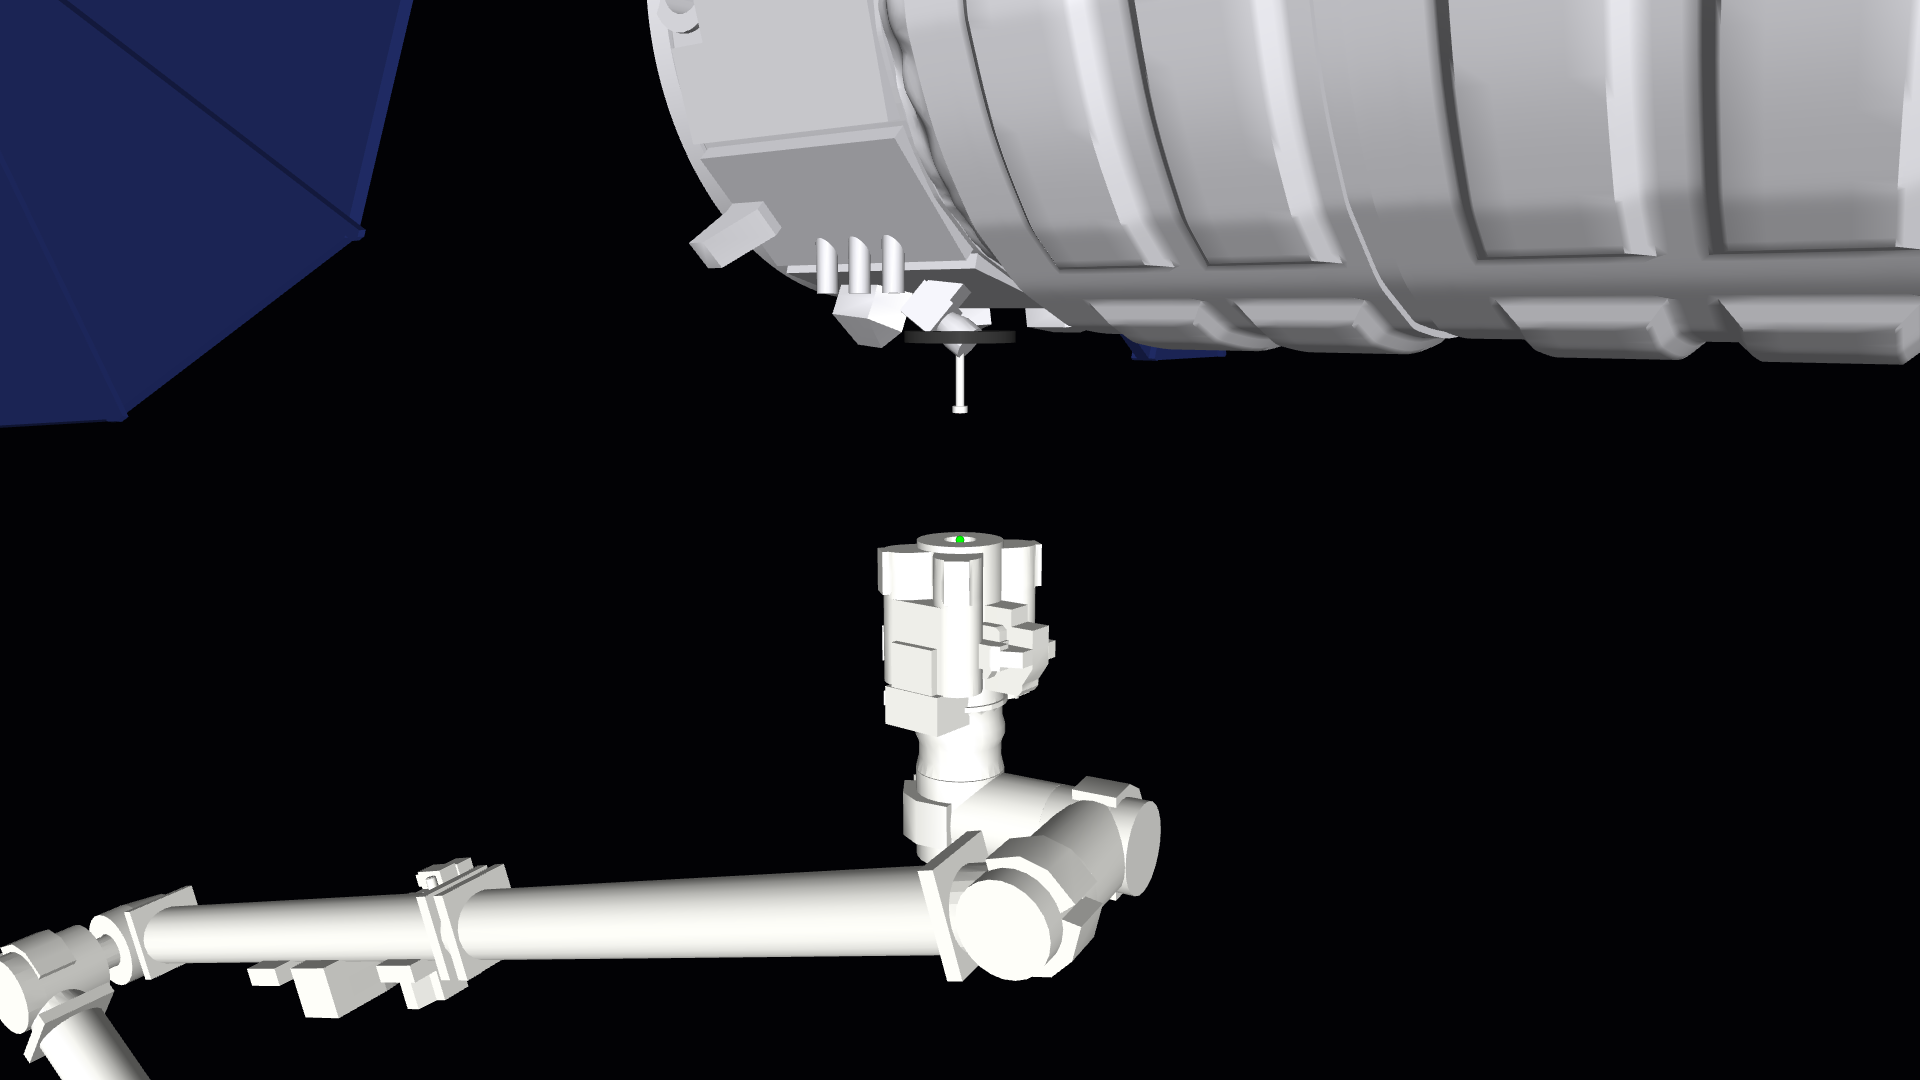
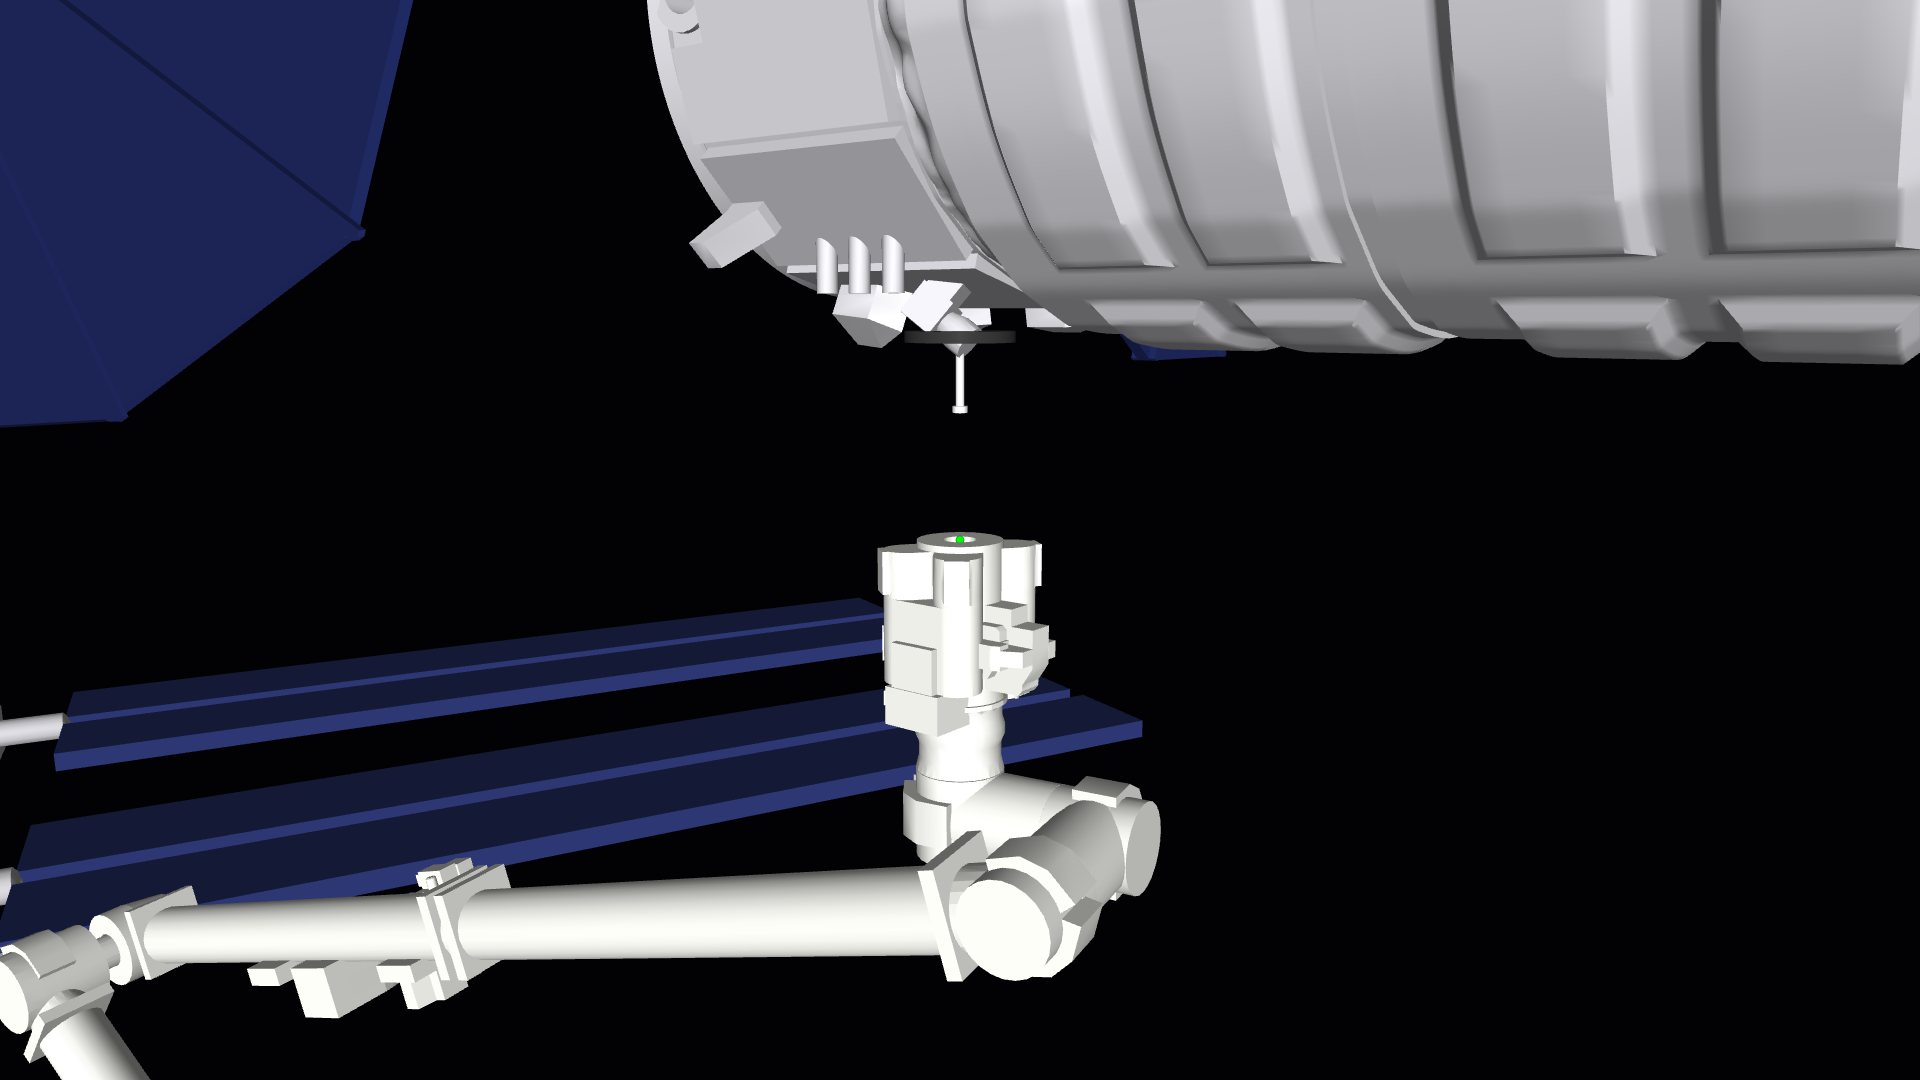
Realism pass 1: add the station
Replace the grey box with NASA's International Space Station model,
fetched by the asset script and scaled to the real truss length. Mount
the arm on the Earth-facing side of the forward node, found from
cross-sections of the model, so the vehicle is captured below the
station as Cygnus is.

The station is scenery only: it adds no mass and nothing collides
with it.

Changed region(s): [[0.0, 0.55, 0.5938, 0.8861]]

diff --git a/scripts/fetch_assets.py b/scripts/fetch_assets.py
@@ -8,6 +8,9 @@ Sources and terms:
   Canadian Space Agency, 1:100 printable models of Canadarm2 and Cygnus.
     Credit: Canadian Space Agency. Non-commercial reproduction permitted with
     acknowledgement; no endorsement implied. https://www.asc-csa.gc.ca/eng/terms.asp
+  NASA 3D Resources, International Space Station (B).
+    Credit: NASA. Published as free and without copyright; NASA's media usage
+    guidelines apply. https://github.com/nasa/NASA-3D-Resources
 
 Needs the `assets` extra:  pip install -e ".[assets]"
 """
@@ -34,6 +37,11 @@ FILES = [
     "Cygnus_Enhanced_1-100_v01.STL",
     "Cygnus_Enhanced_1-100_SolarArray_v01.STL",
 ]
+NASA_ISS = (
+    "https://raw.githubusercontent.com/nasa/NASA-3D-Resources/master/3D%20Models/"
+    "International%20Space%20Station%20(ISS)%20(B)/International%20Space%20Station%20(ISS)%20(B).glb"
+)
+ISS_FILE = "ISS_B.glb"
 PRINT_SCALE = 0.1  # files are in millimetres at 1:100, so 1 mm is 0.1 m at full size
 
 
@@ -45,6 +53,9 @@ def download() -> None:
             continue
         print("downloading", name)
         urllib.request.urlretrieve(CSA + urllib.parse.quote(name), path)
+    if not (RAW / ISS_FILE).exists():
+        print("downloading", ISS_FILE)
+        urllib.request.urlretrieve(NASA_ISS, RAW / ISS_FILE)
 
 
 def load(name: str) -> trimesh.Trimesh:
@@ -122,6 +133,27 @@ def cygnus() -> None:
     save("cygnus_arrays", [array, other])
 
 
+def station() -> None:
+    """The station, scaled to full size and placed so the arm's base sits on it."""
+    scene = trimesh.load(RAW / ISS_FILE, force="scene")
+    to_world = np.eye(4)
+    to_world[:3, :3] = g.STATION_SCALE * g.STATION_MESH_TO_WORLD
+    to_world[:3, 3] = -to_world[:3, :3] @ g.STATION_ARM_MOUNT
+    body, arrays = [], []
+    for node in scene.graph.nodes_geometry:
+        transform, name = scene.graph[node]
+        mesh = scene.geometry[name].copy()
+        mesh.apply_transform(transform)
+        if mesh.bounds[1][1] > 30:
+            continue  # stray discs far from the station in the source file
+        thin_and_wide = mesh.extents.min() < 0.3 and np.sort(mesh.extents)[1] > 20
+        mesh.apply_transform(to_world)
+        mesh.visual = trimesh.visual.ColorVisuals()
+        (arrays if thin_and_wide else body).append(mesh)
+    save("station_body", body)
+    save("station_arrays", arrays)
+
+
 def main() -> None:
     download()
     OUT.mkdir(parents=True, exist_ok=True)
@@ -129,6 +161,7 @@ def main() -> None:
     boom_a()
     boom_b()
     cygnus()
+    station()
 
 
 if __name__ == "__main__":

diff --git a/capture/scene.py b/capture/scene.py
@@ -64,7 +64,7 @@ def _add_cavity_wall(spec: mujoco.MjSpec) -> None:
 
 
 def meshes_available() -> bool:
-    names = list(geometry.ARM_MESHES.values()) + list(geometry.VEHICLE_MESHES)
+    names = [*geometry.ARM_MESHES.values(), *geometry.VEHICLE_MESHES, *geometry.STATION_MESHES]
     return all((MESH_DIR / f"{n}.stl").exists() for n in names)
 
 
@@ -76,8 +76,8 @@ def _use_meshes(spec: mujoco.MjSpec) -> None:
     """
     visual = dict(type=mujoco.mjtGeom.mjGEOM_MESH, contype=0, conaffinity=0, density=0)
     for geom in spec.geoms:
-        # arm stand-ins, the end-effector shell, and the vehicle hull
-        if geom.name.startswith(("v_", "lee_", "hull_")):
+        # arm stand-ins, the end-effector shell, the vehicle hull, and the station box
+        if geom.name.startswith(("v_", "lee_", "hull_", "truss")):
             geom.rgba[3] = 0.0
     for body, mesh in geometry.ARM_MESHES.items():
         spec.add_mesh(name=mesh, file=str(MESH_DIR / f"{mesh}.stl"))
@@ -85,6 +85,9 @@ def _use_meshes(spec: mujoco.MjSpec) -> None:
     for mesh, rgba in geometry.VEHICLE_MESHES.items():
         spec.add_mesh(name=mesh, file=str(MESH_DIR / f"{mesh}.stl"))
         spec.body("vehicle").add_geom(name=f"mesh_{mesh}", meshname=mesh, rgba=list(rgba), **visual)
+    for mesh, rgba in geometry.STATION_MESHES.items():
+        spec.add_mesh(name=mesh, file=str(MESH_DIR / f"{mesh}.stl"))
+        spec.worldbody.add_geom(name=f"mesh_{mesh}", meshname=mesh, rgba=list(rgba), **visual)
 
 
 def build_model(meshes: bool | None = None) -> mujoco.MjModel:

diff --git a/capture/geometry.py b/capture/geometry.py
@@ -16,6 +16,18 @@ BOOM_B_OFFSET = np.array([0.03, -1.87, 0.48])
 # hull axis along z, grapple fixture pointing along +x.
 CYGNUS_MESH_TO_BODY = np.array([[-1.0, 0.0, 0.0], [0.0, 0.0, 1.0], [0.0, 1.0, 0.0]])
 
+# NASA's station model is in arbitrary units. Its truss spans 45.6 units against a real
+# 108.5 m, and its module radii give a similar ratio.
+STATION_SCALE = 2.35
+# Model axes: modules along y (forward is +y), truss along z, Earth-facing side is +x.
+# World axes here: z points away from the arm's mounting surface, toward the vehicle.
+STATION_MESH_TO_WORLD = np.array([[0.0, 1.0, 0.0], [0.0, 0.0, 1.0], [1.0, 0.0, 0.0]])
+# Point on the model that the arm's base sits on: the Earth-facing side of the forward
+# node (Harmony), found from cross-sections of the model. The real arm mounts on
+# dedicated fixtures; which one, and exactly where, is not sourced, so this is approximate.
+STATION_ARM_MOUNT = np.array([0.76, 14.75, 0.0])
+STATION_MESHES = {"station_body": (0.78, 0.78, 0.8, 1.0), "station_arrays": (0.16, 0.2, 0.42, 1.0)}
+
 # Meshes written by scripts/fetch_assets.py, by the body they are attached to.
 ARM_MESHES = {
     "arm_root": "lee_a",

diff --git a/scripts/plan_diagram.py b/scripts/plan_diagram.py
@@ -23,7 +23,7 @@ EXPERIMENTS = [
 ]
 
 # One line on what is happening right now, shown under the title.
-NOW = "Now: realism pass before stage 4.  Real 3D models: done.  Sourced parameters: next.  10 m start: planned."
+NOW = "Now: realism pass before stage 4.  Real 3D models and station: done.  Sourced parameters: next.  10 m start: planned."
 
 W, H = 1600, 860
 BG, CARD, EDGE = "#0f1b2d", "#1b2a40", "#2b3d57"

diff --git a/scripts/render_scene.py b/scripts/render_scene.py
@@ -15,7 +15,8 @@ OUT = ROOT / "docs" / "media"
 
 VIEWS = {
     # name: (lookat, distance, azimuth, elevation)
-    "scene_wide": ((0.5, 1.0, 6.5), 30.0, 35.0, -12.0),
+    "scene_station": ((-10.0, 0.0, 2.0), 70.0, 50.0, -20.0),
+    "scene_wide": ((0.0, 2.0, 4.0), 26.0, 150.0, 5.0),
     "scene_closeup": (None, 6.0, 60.0, -10.0),
 }
 

diff --git a/docs/PLAN.md b/docs/PLAN.md
@@ -24,7 +24,7 @@ The project is simulation only. It is a reasoned study of a real operation, not 
 | 1 | Zero-g scene | Done (2026-10-10) | Arm and vehicle load, momentum is conserved, arm tracks commands |
 | 2 | Snare mechanism | Done (2026-10-10) | A closing mechanism holds the pin against a pull-out force |
 | 3 | Approach and capture | Done (2026-10-10) | A controller completes a capture from a nominal start |
-| R1 | Realism: real 3D models | Done (2026-10-10) | Arm and vehicle use the Canadian Space Agency models; arm joints placed from them |
+| R1 | Realism: real 3D models | Done (2026-10-10) | Arm, vehicle, and station use Canadian Space Agency and NASA models; arm joints placed from them |
 | R2 | Realism: sourced parameters | Next | Snare and capture numbers taken from the published papers where they give them |
 | R3 | Realism: 10 m capture point | Planned | The attempt starts with the vehicle at the real capture distance |
 | 4 | Trial harness | Planned | One command runs N trials and reports success rate and failure types |
@@ -54,6 +54,7 @@ The project is simulation only. It is a reasoned study of a real operation, not 
 | 2026-10-10 | Fetch the 3D models with a script; do not store them in the repository | The Canadian Space Agency permits non-commercial reproduction with credit; fetching from the source avoids redistributing the files |
 | 2026-10-10 | Rebuild the arm's joints from the CSA model's separate parts | The model shows Canadarm2's offset joints, which the first straight-line arm did not have |
 | 2026-10-10 | Meshes are appearance only; collisions keep simple shapes | Keeps contact fast and predictable, and the simulation runs without the downloaded files |
+| 2026-10-10 | Mount the arm on the Earth-facing side of the forward node (Harmony) | Cygnus is captured about 10 m below the station; the exact fixture used is not sourced, so this is an approximation |
 | 2026-10-10 | Move the grapple pin to the service module | The Cygnus model has a small fixture there |
 | 2026-10-10 | Treat the station as fixed and the arm as rigid | The station is about 60 times heavier than the vehicle; arm flexibility is left out to keep the first version simple |
 
@@ -72,7 +73,7 @@ These are placeholders, chosen to be plausible. Each needs a source or an explic
 - Snare: bar radius 6 mm, closing time 2 s, drive force limit 1,500 N, carriage force limit 1,000 N, friction 0.6. All invented.
 - Pin tip knob: 3.5 cm radius, 3 cm long. The real fixture's shaft and cam geometry is not reproduced.
 - Capture limits: a NASA report on this end-effector design gives ±0.1 m lateral and 0.1 m axial misalignment tolerance. Angular limits and limits on relative velocity still to find.
-- Station: still a grey box. NASA's free station model is low-detail and placing the arm on it correctly needs a real attachment point; not done.
+- Station: NASA's model (B), scaled by 2.35 to match the real truss length. It is low-detail, untextured, and its US modules come out about 15% narrower than the real ones. The arm is mounted on the Earth-facing side of the forward node; the real mounting fixture and its exact position are not sourced.
 
 ## Risks
 

diff --git a/docs/DEVLOG.md b/docs/DEVLOG.md
@@ -240,3 +240,27 @@ The approach and capture tests passed unchanged on the new arm.
 - The station is still a grey box. NASA's free station model loads, but it is low-detail and untextured, and attaching the arm to it properly needs a real attachment point.
 - The solar arrays and the arm's links do not collide with anything.
 - Joint positions come from bounding boxes of a simplified printable model, not from engineering drawings.
+
+## 2026-10-10 · Realism pass, step 1 continued: the station
+
+**Built.** NASA's International Space Station model (B) replaces the grey box. `scripts/fetch_assets.py` downloads it from NASA's 3D Resources repository, drops a few stray discs that sit far from the station in the source file, scales it, and splits the solar arrays from the rest so they can be coloured.
+
+![Station with the arm and Cygnus](media/scene_station.png)
+![Arm mounted on the forward node](media/scene_wide.png)
+
+**Working out the model.** The file has no units and no module names; its meshes are grouped by material, not by module.
+
+- *Scale.* The truss spans 45.6 model units against a real 108.5 m, giving 2.38. Module radii give 2.1 to 2.3. Used 2.35.
+- *Which way is down.* The truss sits on one side of the module axis. On the real station the truss is on the space-facing side, so the opposite side faces Earth.
+- *Which end is forward.* Cross-sections along the module axis show where the two side-mounted laboratories (Kibo and Columbus) attach. That is the forward node, Harmony.
+
+**What went wrong.** The first placement had forward and aft swapped. I misread which way a rendered view was facing, and the arm ended up floating a metre off the Russian segment. The render made the mistake obvious. Fixed by measuring cross-sections instead of reading the picture.
+
+**Placement.** The arm's base sits on the Earth-facing side of Harmony, and the vehicle is captured about 9 m below it. Cygnus is captured roughly 10 m below the station, so the direction is right. The exact fixture the real arm stands on for these captures is not sourced.
+
+**Limits.**
+
+- The model is low-detail and untextured, and its US modules are about 15% narrower than the real ones at this scale.
+- The station is scenery. Nothing collides with it.
+
+**Checks.** 21 pass. The station adds no mass or collision shapes.

diff --git a/README.md b/README.md
@@ -6,7 +6,9 @@ A MuJoCo simulation of a space station arm capturing a free-floating cargo vehic
 
 ![Project plan](docs/media/plan.svg)
 
-![Scene](docs/media/scene_wide.png)
+![Station, arm, and Cygnus](docs/media/scene_station.png)
+
+![Arm on the forward node](docs/media/scene_wide.png)
 
 ![Approach and capture, 4x speed](docs/media/approach_capture.gif)
 
@@ -21,7 +23,7 @@ python3 -m venv .venv
 .venv/bin/python scripts/render_approach.py
 ```
 
-That runs with plain stand-in shapes. To use the real 3D models, fetch them once (about 9 MB, from the Canadian Space Agency's site):
+That runs with plain stand-in shapes. To use the real 3D models, fetch them once (about 10 MB, from the Canadian Space Agency and NASA):
 
 ```bash
 .venv/bin/pip install -e ".[assets]"
@@ -42,7 +44,7 @@ Simulation only. Arm joint positions are measured from a simplified 1:100 model;
 
 ## Credits
 
-3D models of Canadarm2 and Cygnus: Canadian Space Agency. They are downloaded from the agency's site, not stored here, and used for non-commercial purposes. This project is not associated with or endorsed by the Canadian Space Agency or NASA.
+3D models of Canadarm2 and Cygnus: Canadian Space Agency. 3D model of the International Space Station: NASA. They are downloaded from the agencies' own sites, not stored here, and used for non-commercial purposes. This project is not associated with or endorsed by the Canadian Space Agency or NASA.
 
 ## How this was built
 
